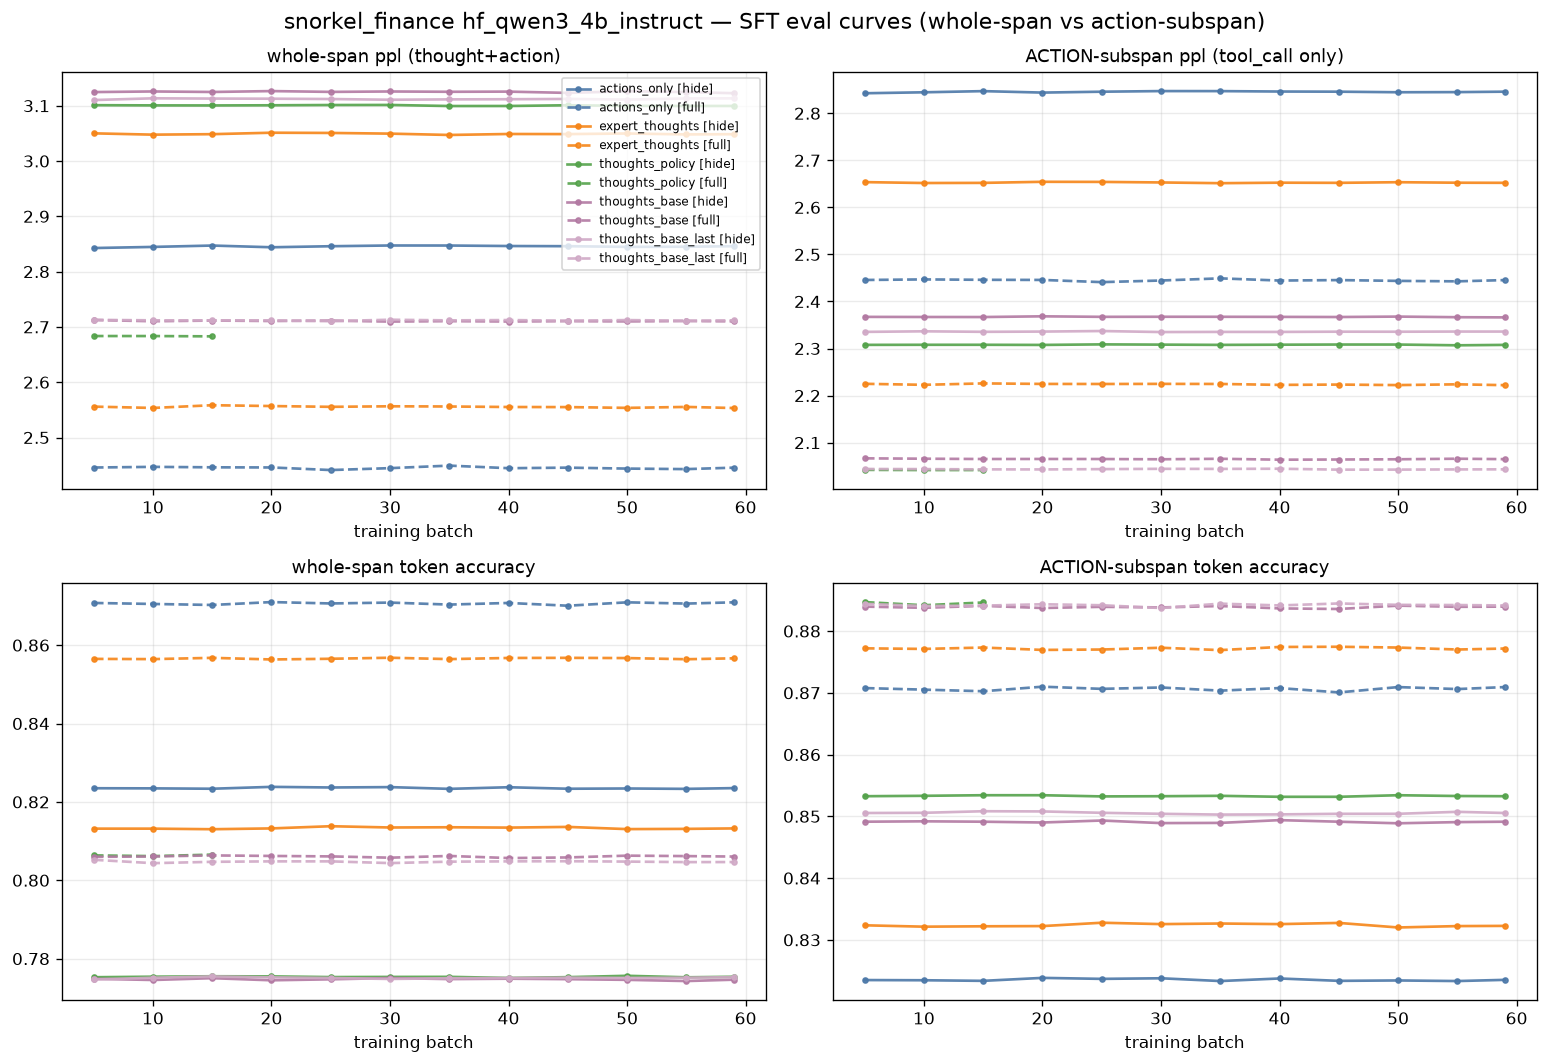
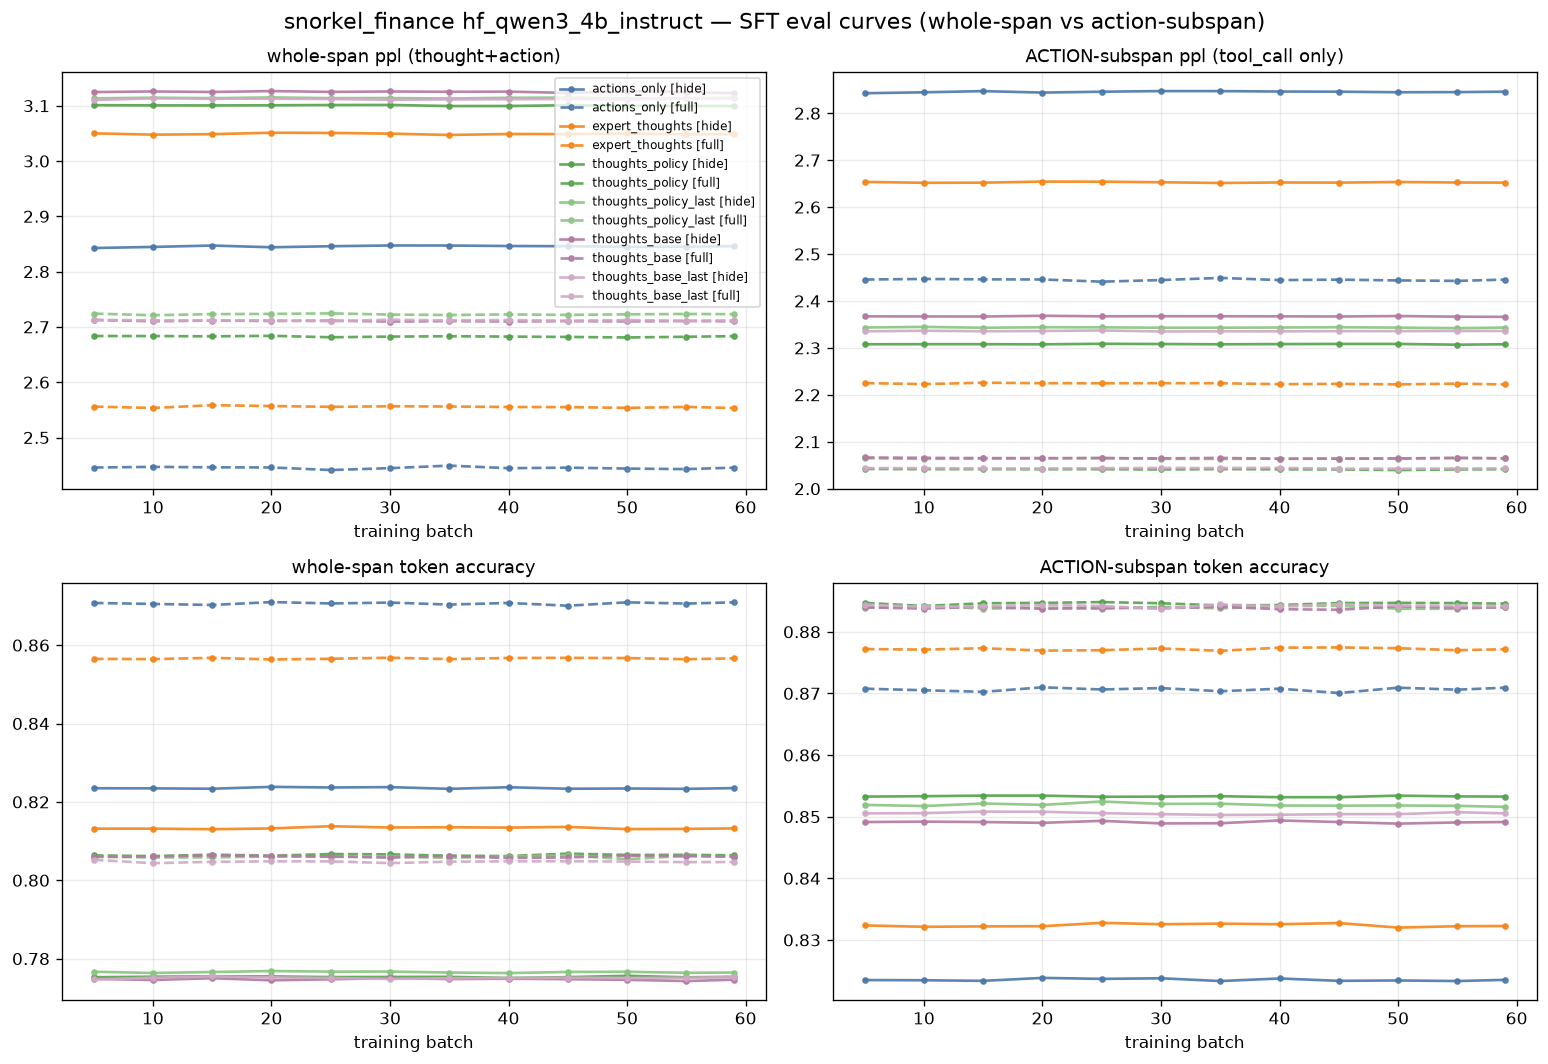
PIPELINE COMPLETE (4B, 12/12 SFTs). Final result in cc-finance-1.0: all 4 Act-PRM variants beat expert-oracle + actions_only on action-subspan in both regimes (hide: aprm ~2.31 < expert 2.65 < actions 2.84; full: ~2.04 < 2.22 < 2.44); whole-span metric inverts it (the flip). policy_last corpus stric

diff --git a/notes/cc-finance-1.0-pipeline.md b/notes/cc-finance-1.0-pipeline.md
@@ -95,19 +95,35 @@ train/eval (ppl = exp(mean CE); accuracy = top-1 argmax==gold).
    Replaced with the `action_start_token` boundary (verified on tool_call / Final Answer
    / actions_only).
 
-## Preliminary results (4B, PARTIAL — head-start variants only; live)
-Best (min) eval **action-subspan** ppl / accuracy so far:
+## FINAL results (4B, all 12 variants; pipeline complete 07-29)
+Best (min) eval **action-subspan** ppl (↓) / accuracy (↑). All 4 corpora strict-verified
+clean (0 sample_id/action mismatches).
 
 | variant | regime | action-ppl ↓ | action-acc ↑ | whole-span ppl |
 |---|---|---|---|---|
-| actions_only | hide | 2.84 | 0.824 | 2.84 (== ; no thought) |
-| actions_only | full | 2.45 | 0.871 | 2.45 |
-| **expert_thoughts** | hide | **2.65** | **0.833** | 3.05 |
+| **thoughts_policy (Act-PRM)** | full | **2.040** | **0.885** | 2.68 |
+| thoughts_base_last | full | 2.043 | 0.885 | 2.71 |
+| thoughts_policy_last | full | 2.063 | 0.884 | 2.72 |
+| thoughts_base | full | 2.064 | 0.884 | 2.71 |
+| expert_thoughts (oracle) | full | 2.222 | 0.877 | 2.55 |
+| actions_only | full | 2.441 | 0.871 | 2.44 |
+| **thoughts_policy (Act-PRM)** | hide | **2.307** | **0.853** | 3.10 |
+| thoughts_base_last | hide | 2.335 | 0.850 | 3.11 |
+| thoughts_policy_last | hide | 2.342 | 0.852 | 3.11 |
+| thoughts_base | hide | 2.366 | 0.849 | 3.12 |
+| expert_thoughts (oracle) | hide | 2.652 | 0.833 | 3.05 |
+| actions_only | hide | 2.843 | 0.824 | 2.84 |
 
-**The airline flip reproduces:** `expert_thoughts` (hide) BEATS `actions_only` (hide)
-on action prediction (2.65 < 2.84), even though its whole-span ppl is *worse* (3.05 >
-2.84) — the thought inflates whole-span but *helps* the action. This is the whole point
-of the action-subspan metric. Act-PRM (thoughts_policy/base) variants pending Stage 1.5.
+**Headline:** in BOTH regimes, **all four Act-PRM variants (policy/base × best/last)
+beat the expert-reasoning oracle AND the actions_only baseline** on next-action
+prediction — Act-PRM roughly DOUBLES the improvement the expert thoughts give
+(hide: actions_only 2.84 → expert 2.65 → Act-PRM ~2.31). `thoughts_policy` (policy-
+scored) is best in both regimes; policy≈base, best≈last (tight cluster).
+
+**The action-subspan metric is essential (the flip):** the Act-PRM variants have the
+*worst* whole-span ppl (~2.7 full / ~3.1 hide) yet the *best* action-subspan — i.e. the
+whole-span metric would rank Act-PRM LAST while it actually predicts actions BEST. The
+verbose thought inflates whole-span but helps the action.
 
 ## Deliverables
 - notes: `cc-finance-1.0-pipeline.md` (this), `cc-finance-2.0-rl-design.md` (Stage 3).
